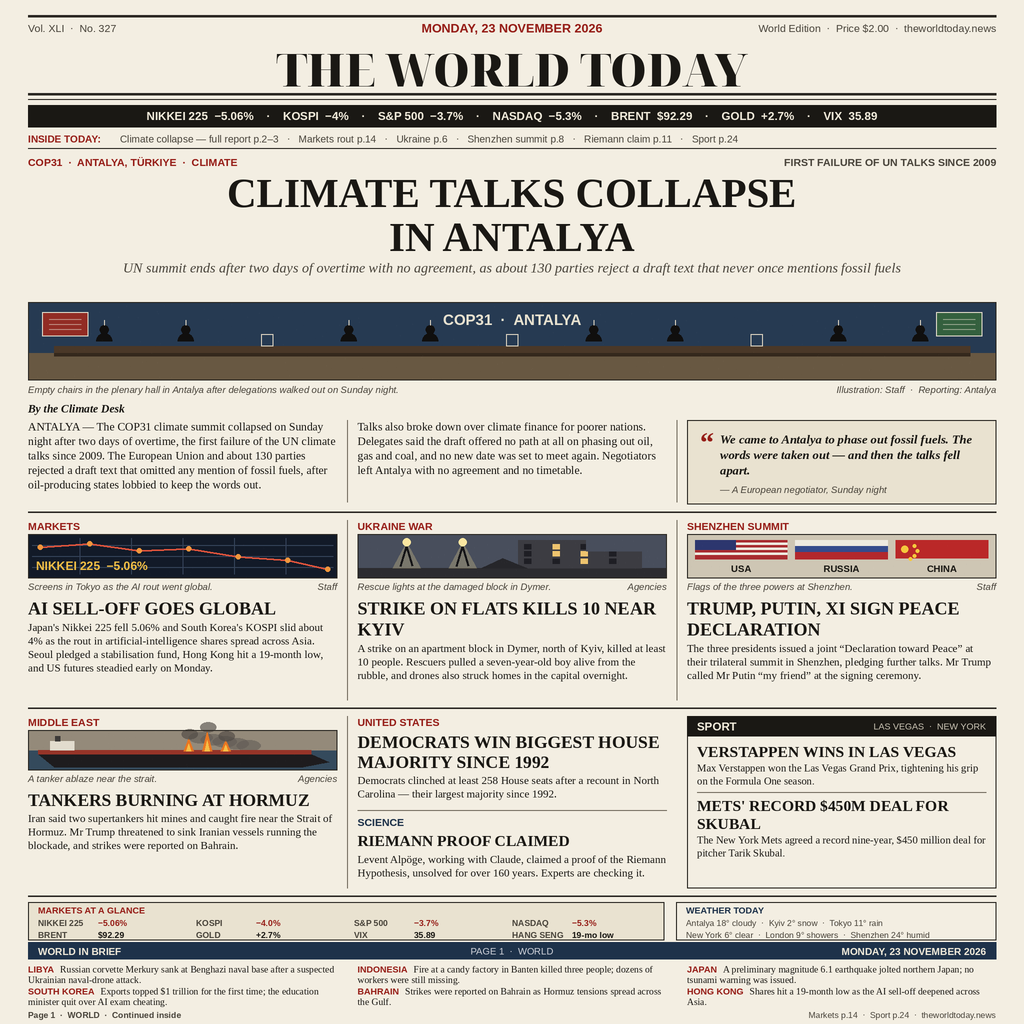
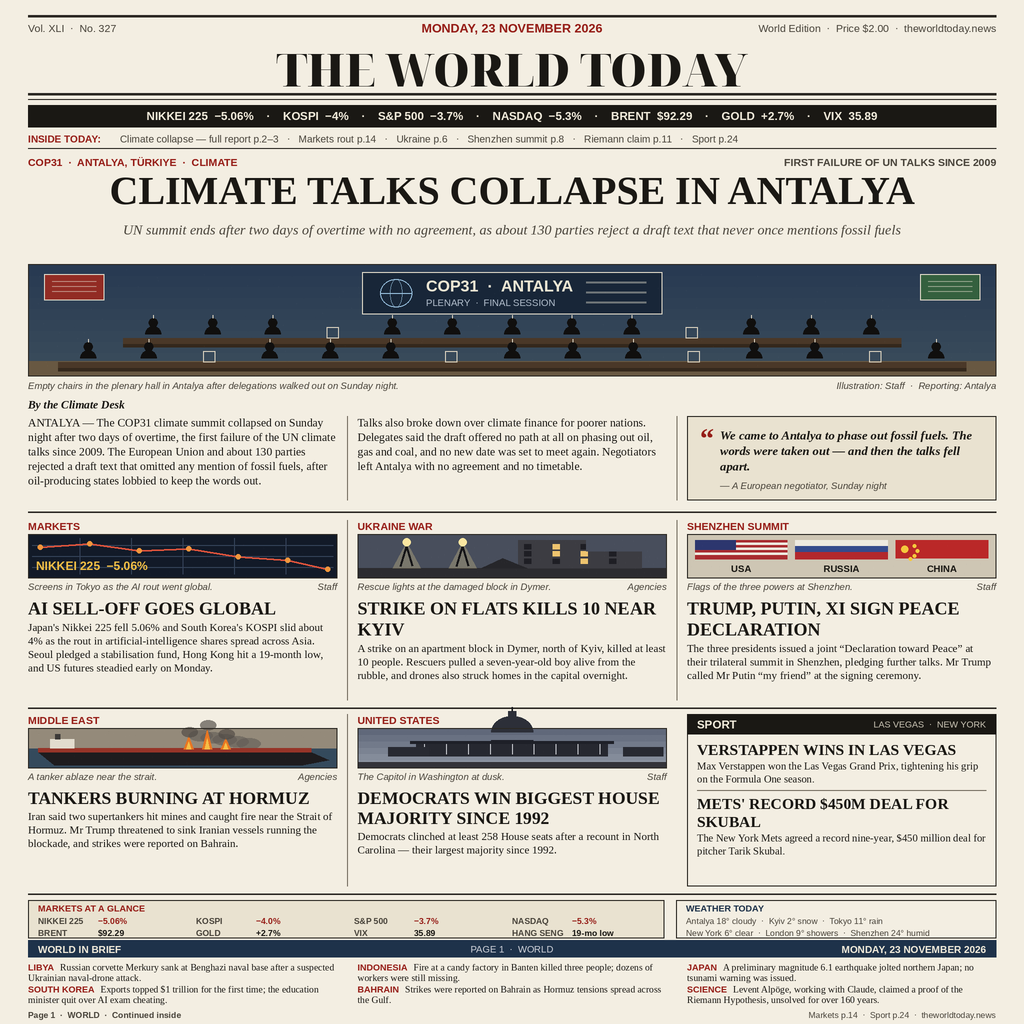
news-image-20261123 v4: taller COP31 plenary panel, one-line lead headline, Capitol panel for the House story, Riemann brief

Changed region(s): [[0.0312, 0.1562, 1.0, 0.5], [0.0312, 0.6875, 0.9688, 1.0]]

diff --git a/tools/render_page.py b/tools/render_page.py
@@ -1,4 +1,4 @@
-"""Build-time renderer for the v3 front page of THE WORLD TODAY.
+"""Build-time renderer for the v4 front page of THE WORLD TODAY.
 
 Composes a realistic broadsheet newspaper front page for Monday,
 23 November 2026 and writes it to assets/final-page.png. The page is
@@ -7,13 +7,20 @@ the type and the press-style illustration panels a smoother, printed
 finish. Pillow is used only here, on the build machine; the shipped
 entry point (main.py) is pure standard library.
 
+v4 changes over v3: the lead headline runs on one line so the COP31
+plenary panel can stand more than twice as tall — a proper hall scene
+with a big screen and two rows of delegates' desks, so the day's lead
+story reads at a glance. The US House story gains a Capitol panel of
+its own, and the Riemann claim moves to the World in Brief strip,
+where the Hong Kong brief (already covered by the markets story) was.
+
 Layout, top to bottom:
   folio line and masthead, markets ticker, "Inside today" strip,
   the COP31 lead (headline, deck, plenary-hall panel with caption and
   credit, body columns with a pull-quote rail), a three-column row
   (markets rout, Dymer strike, Shenzhen declaration), a second
-  three-column row (Hormuz tankers, US House + Riemann claim, Sport),
-  a markets-at-a-glance and weather band, and a World in Brief strip.
+  three-column row (Hormuz tankers, US House, Sport), a markets-at-a-
+  glance and weather band, and a World in Brief strip.
 """
 
 import random
@@ -134,34 +141,56 @@ def kicker(x, y, s, fill=RED):
 # ---------------------------------------------------------------- panels
 
 def plenary_panel(x, y, w, h):
-    """COP31 plenary hall in Antalya after the walkout."""
+    """COP31 plenary hall in Antalya after the walkout: a big screen
+    over two rows of delegates' desks, several chairs pointedly empty."""
     panel(x, y, w, h)
-    rect(x + 1, y + 1, w - 2, h - 26, fill=(38, 58, 82))            # hall wall
-    rect(x + 1, y + h - 27, w - 2, 26, fill=(104, 88, 66))          # stage floor
-    rect(x + 14, y + 10, 46, 24, fill=(146, 44, 36))                # side screens
-    rect(x + w - 60, y + 10, 46, 24, fill=(52, 96, 62))
-    rect(x + 14, y + 10, 46, 24, outline=(220, 214, 198), width=1)
-    rect(x + w - 60, y + 10, 46, 24, outline=(220, 214, 198), width=1)
-    for sx in (x + 14, x + w - 60):  # faint agenda lines on the screens
+    for i in range(10):  # hall wall, shaded in bands toward the floor
+        shade = (40 + i * 2, 58 + i * 2, 82 + i)
+        rect(x + 1, y + 1 + i * (h - 2) / 10, w - 2, (h - 2) / 10 + 1,
+             fill=shade)
+    rect(x + 1, y + h - 15, w - 2, 14, fill=(104, 88, 66))          # stage floor
+    # side screens with faint agenda lines
+    for sx, col in ((x + 16, (146, 44, 36)), (x + w - 76, (52, 96, 62))):
+        rect(sx, y + 10, 60, 26, fill=col, outline=(220, 214, 198), width=1)
         for li in range(3):
-            line(sx + 7, y + 17 + li * 5, sx + 39, y + 17 + li * 5,
+            line(sx + 8, y + 17 + li * 5, sx + 52, y + 17 + li * 5,
                  fill=(226, 220, 204, 130), width=1)
-    text(x + w / 2, y + 9, "COP31  ·  ANTALYA", F(SANS_B, 15),
-         (232, 226, 208), anchor="ma")
-    ty = y + h - 34                                                 # delegates' table
-    rect(x + 26, ty, w - 52, 7, fill=(74, 56, 40))
-    rect(x + 26, ty + 7, w - 52, 3, fill=(52, 40, 28))
-    seats = 11
-    for i in range(seats):  # some seats filled, several pointedly empty
-        cx = x + 76 + i * (w - 152) / (seats - 1)
-        if i in (2, 5, 8):
-            rect(cx - 6, ty - 12, 12, 12, outline=(214, 206, 188), width=1)
-            continue
-        d.ellipse([X(cx - 4.5), X(ty - 21), X(cx + 4.5), X(ty - 12)],
-                  fill=(16, 15, 14))
-        d.pieslice([X(cx - 8), X(ty - 13), X(cx + 8), X(ty + 3)],
-                   180, 360, fill=(16, 15, 14))
-        line(cx, ty - 26, cx, ty - 21, fill=(214, 206, 188), width=1)
+    # the big screen: summit name, a globe ring, the day's agenda
+    sw, sh = 300, 42
+    sx0, sy0 = x + (w - sw) / 2, y + 8
+    rect(sx0, sy0, sw, sh, fill=(24, 38, 56), outline=(220, 214, 198),
+         width=1)
+    d.ellipse([X(sx0 + 18), X(sy0 + 7), X(sx0 + 50), X(sy0 + 35)],
+              outline=(150, 190, 220), width=2)
+    d.ellipse([X(sx0 + 28), X(sy0 + 7), X(sx0 + 40), X(sy0 + 35)],
+              outline=(150, 190, 220), width=1)
+    line(sx0 + 18, sy0 + 21, sx0 + 50, sy0 + 21, fill=(150, 190, 220),
+         width=1)
+    text(sx0 + 64, sy0 + 5, "COP31  ·  ANTALYA", F(SANS_B, 16),
+         (236, 230, 212))
+    text(sx0 + 64, sy0 + 25, "PLENARY  ·  FINAL SESSION", F(SANS, 9.5),
+         (178, 190, 204))
+    for li in range(3):
+        line(sx0 + 224, sy0 + 10 + li * 10, sx0 + 284, sy0 + 10 + li * 10,
+             fill=(226, 220, 204, 110), width=2)
+
+    def desk_row(ty, seats, empties, span):
+        rect(x + (w - span) / 2, ty, span, 6, fill=(74, 56, 40))
+        rect(x + (w - span) / 2, ty + 6, span, 3, fill=(52, 40, 28))
+        for i in range(seats):
+            cx = x + (w - span) / 2 + 30 + i * (span - 60) / (seats - 1)
+            if i in empties:  # an empty chair: pale outline, no delegate
+                rect(cx - 6, ty - 11, 12, 11, outline=(214, 206, 188),
+                     width=1)
+                continue
+            d.ellipse([X(cx - 4.5), X(ty - 20), X(cx + 4.5), X(ty - 11)],
+                      fill=(16, 15, 14))
+            d.pieslice([X(cx - 8), X(ty - 12), X(cx + 8), X(ty + 4)],
+                       180, 360, fill=(16, 15, 14))
+            line(cx, ty - 23, cx, ty - 20, fill=(214, 206, 188), width=1)
+
+    desk_row(y + h - 38, 13, (3, 9), w - 190)      # back row, raised
+    desk_row(y + h - 14, 15, (2, 6, 10, 13), w - 60)  # front row
     grain(x, y, w, h, seed=31)
     rect(x, y, w, h, outline=RULE, width=1)
 
@@ -270,6 +299,34 @@ def tanker_panel(x, y, w, h):
     rect(x, y, w, h, outline=RULE, width=1)
 
 
+def capitol_panel(x, y, w, h):
+    """The US Capitol at dusk: dome, colonnade and steps in silhouette."""
+    panel(x, y, w, h)
+    for i in range(6):  # dusk sky, paler toward the horizon
+        shade = (96 + i * 9, 104 + i * 9, 122 + i * 8)
+        rect(x + 1, y + 1 + i * (h - 2) / 6, w - 2, (h - 2) / 6 + 1,
+             fill=shade)
+    rect(x + 1, y + h - 6, w - 2, 5, fill=(52, 52, 58))             # plaza
+    cx = x + w / 2
+    bw = w * 0.62                                                   # building width
+    bx = cx - bw / 2
+    by = y + h - 12                                                 # building base
+    rect(bx, by - 13, bw, 13, fill=(38, 40, 48))                    # main block
+    for i in range(9):                                              # colonnade
+        lx = bx + 8 + i * (bw - 16) / 8
+        line(lx, by - 12, lx, by - 2, fill=(196, 198, 204), width=1)
+    rect(bx - 6, by - 15, bw + 12, 2.5, fill=(30, 32, 40))          # entablature
+    d.pieslice([X(cx - 21), X(by - 40), X(cx + 21), X(by - 8)],
+               180, 360, fill=(44, 47, 56))                         # the dome
+    rect(cx - 21, by - 16, 42, 2, fill=(30, 32, 40))
+    rect(cx - 4, by - 45, 8, 6, fill=(44, 47, 56))                  # lantern
+    line(cx, by - 45, cx, by - 49, fill=(24, 25, 30), width=1.5)    # statue spike
+    for sx in (x + w * 0.10, x + w * 0.86):                         # side wings
+        rect(sx, by - 9, w * 0.13, 9, fill=(40, 42, 50))
+    grain(x, y, w, h, seed=23, n=110, alpha=10)
+    rect(x, y, w, h, outline=RULE, width=1)
+
+
 # ---------------------------------------------------------------- page
 
 M = 28                 # page margin
@@ -335,19 +392,19 @@ line(M, 148, W - M, 148, width=1)
 kicker(M, 156, "COP31  ·  ANTALYA, TÜRKIYE  ·  CLIMATE")
 text(W - M, 156, "FIRST FAILURE OF UN TALKS SINCE 2009", F(SANS_B, 10.5),
      SOFT, anchor="ra")
-text(W / 2, 170, "CLIMATE TALKS COLLAPSE", F(SERIF_B, 41), INK, anchor="ma")
-text(W / 2, 214, "IN ANTALYA", F(SERIF_B, 41), INK, anchor="ma")
-flow(M + 60, 260,
+text(W / 2, 168, "CLIMATE TALKS COLLAPSE IN ANTALYA", F(SERIF_B, 40),
+     INK, anchor="ma")
+flow(M + 60, 222,
      "UN summit ends after two days of overtime with no agreement, as about "
      "130 parties reject a draft text that never once mentions fossil fuels",
      F(SERIF_I, 14), CW - 120, 18, SOFT, align="center")
 
-plenary_panel(M, 302, CW, 78)
-caption(M, 384, CW,
+plenary_panel(M, 264, CW, 112)
+caption(M, 380, CW,
         "Empty chairs in the plenary hall in Antalya after delegations walked out on Sunday night.",
         "Illustration: Staff  ·  Reporting: Antalya")
 
-text(M, 402, "By the Climate Desk", F(SERIF_BI, 11.5), INK)
+text(M, 398, "By the Climate Desk", F(SERIF_BI, 11.5), INK)
 LEAD_A = ("ANTALYA — The COP31 climate summit collapsed on Sunday night "
           "after two days of overtime, the first failure of the UN climate "
           "talks since 2009. The European Union and about 130 parties "
@@ -357,17 +414,17 @@ LEAD_B = ("Talks also broke down over climate finance for poorer nations. "
           "Delegates said the draft offered no path at all on phasing out "
           "oil, gas and coal, and no new date was set to meet again. "
           "Negotiators left Antalya with no agreement and no timetable.")
-flow(M, 420, LEAD_A, F(SERIF, 11.5), COLW, 14.5)
-vrule(COL2 - GUT / 2, 420, 502)
-flow(COL2, 420, LEAD_B, F(SERIF, 11.5), COLW, 14.5)
-vrule(COL3 - GUT / 2, 420, 502)
-rect(COL3, 420, COLW, 84, fill=PAPER_DARK, outline=RULE, width=1)
-text(COL3 + 13, 427, "“", F(SERIF_B, 28), RED)
-flow(COL3 + 33, 432,
+flow(M, 416, LEAD_A, F(SERIF, 11.5), COLW, 14.5)
+vrule(COL2 - GUT / 2, 416, 500)
+flow(COL2, 416, LEAD_B, F(SERIF, 11.5), COLW, 14.5)
+vrule(COL3 - GUT / 2, 416, 500)
+rect(COL3, 416, COLW, 84, fill=PAPER_DARK, outline=RULE, width=1)
+text(COL3 + 13, 423, "“", F(SERIF_B, 28), RED)
+flow(COL3 + 33, 428,
      "We came to Antalya to phase out fossil fuels. The words were taken "
      "out — and then the talks fell apart.",
      F(SERIF_BI, 12.5), COLW - 47, 15.5)
-text(COL3 + 33, 484, "— A European negotiator, Sunday night",
+text(COL3 + 33, 480, "— A European negotiator, Sunday night",
      F(SANS_I, 9.5), SOFT)
 line(M, 512, W - M, 512, width=1.5)
 
@@ -409,7 +466,7 @@ flow(COL3, y + 2,
 line(M, RA + 188, W - M, RA + 188, width=1.5)
 
 # --- row B: hormuz / united states + science / sport -------------------------
-RB = RA + 196  # 730
+RB = RA + 194  # 714
 kicker(M, RB, "MIDDLE EAST")
 tanker_panel(M, RB + 14, COLW, 40)
 caption(M, RB + 57, COLW, "A tanker ablaze near the strait.", "Agencies")
@@ -422,19 +479,13 @@ flow(M, y + 2,
 
 vrule(COL2 - GUT / 2, RB, RB + 172)
 kicker(COL2, RB, "UNITED STATES")
-y = flow(COL2, RB + 16, "DEMOCRATS WIN BIGGEST HOUSE MAJORITY SINCE 1992",
+capitol_panel(COL2, RB + 14, COLW, 40)
+caption(COL2, RB + 57, COLW, "The Capitol in Washington at dusk.", "Staff")
+y = flow(COL2, RB + 74, "DEMOCRATS WIN BIGGEST HOUSE MAJORITY SINCE 1992",
          F(SERIF_B, 17.5), COLW, 20)
 flow(COL2, y + 2,
      "Democrats clinched at least 258 House seats after a recount in "
      "North Carolina — their largest majority since 1992.",
-     F(SERIF, 11), COLW, 13.5)
-line(COL2, RB + 94, COL2 + COLW, RB + 94, fill=FAINT, width=1)
-kicker(COL2, RB + 100, "SCIENCE", fill=NAVY)
-y = flow(COL2, RB + 116, "RIEMANN PROOF CLAIMED",
-         F(SERIF_B, 15.5), COLW, 19)
-flow(COL2, y + 2,
-     "Levent Alpöge, working with Claude, claimed a proof of the Riemann "
-     "Hypothesis, unsolved for over 160 years. Experts are checking it.",
      F(SERIF, 11), COLW, 13.5)
 
 rect(COL3, RB, COLW, 172, outline=RULE, width=1.2)                    # sport box
@@ -494,8 +545,8 @@ BRIEFS = [
                     "education minister quit over AI exam cheating."),
     ("BAHRAIN", "Strikes were reported on Bahrain as Hormuz tensions "
                 "spread across the Gulf."),
-    ("HONG KONG", "Shares hit a 19-month low as the AI sell-off deepened "
-                  "across Asia."),
+    ("SCIENCE", "Levent Alpöge, working with Claude, claimed a proof of "
+                "the Riemann Hypothesis, unsolved for over 160 years."),
 ]
 for i, (head, body) in enumerate(BRIEFS):
     bx = M + (i % 3) * (COLW + GUT)

diff --git a/README.md b/README.md
@@ -2,17 +2,20 @@
 [![rank](https://make.fun/badge/news-image-20261123/kingpoogh-stack/news-image-20261123/rank.svg)](https://make.fun/bounty/news-image-20261123/leaderboard?utm_source=github&utm_medium=readme&utm_campaign=news-image-20261123)
 [![reward](https://make.fun/badge/news-image-20261123/kingpoogh-stack/news-image-20261123/reward.svg)](https://make.fun/bounty/news-image-20261123?utm_source=github&utm_medium=readme&utm_campaign=news-image-20261123)
 
-# The World Today — Monday, 23 November 2026 (v3)
+# The World Today — Monday, 23 November 2026 (v4)
 
 An entry for make.fun's [“Sum up 23 November's world news in one image” bounty](https://make.fun/bounty/news-image-20261123).
 
-Version 3 of the one-page broadsheet front page summing up Monday,
+Version 4 of the one-page broadsheet front page summing up Monday,
 23 November 2026's world news in a single 1024×1024 image. The date
 runs in the folio line, the World in Brief header and the footer, so
-the day is named wherever a reader's eye lands. Compared with v2,
-every story now carries fuller newspaper copy — several sentences of
-figures, places and names rather than a headline and a one-liner —
-and the page adds a pull-quote, a markets data box and a weather box.
+the day is named wherever a reader's eye lands. Compared with v3,
+the lead headline now runs on a single line so the COP31 plenary
+panel stands more than twice as tall — a full hall scene with the
+summit screen and two rows of delegates' desks, its empty chairs
+marking the walkout — and the US House story gains a Capitol panel
+of its own. The Riemann claim moves to the World in Brief strip,
+whose Hong Kong brief duplicated the markets story.
 
 The lead story is the collapse of the COP31 climate summit in
 Antalya, Türkiye: an oversize headline and deck, a plenary-hall
@@ -23,14 +26,14 @@ text: the global AI sell-off (Nikkei 225 −5.06%, with a dealing-room
 chart panel), the deadly strike on an apartment block in Dymer near
 Kyiv (10 killed, with a rescue-lights panel), the Trump–Putin–Xi
 "Declaration toward Peace" signed in Shenzhen (flags panel), burning
-tankers near the Strait of Hormuz, the Democrats' largest US House
-majority since 1992, and a claimed proof of the Riemann Hypothesis.
-A boxed Sport section covers Verstappen's Las Vegas Grand Prix win
-and the New York Mets' record $450 million deal for Tarik Skubal. A
-"Markets at a Glance" data box (Nikkei, KOSPI, S&P 500, Nasdaq,
-Brent, gold, VIX, Hang Seng) sits beside a six-city weather box, and
-a six-item World in Brief strip covers Libya, Indonesia, Japan,
-South Korea, Bahrain and Hong Kong.
+tankers near the Strait of Hormuz, and the Democrats' largest US
+House majority since 1992 under a dusk view of the Capitol. A boxed
+Sport section covers Verstappen's Las Vegas Grand Prix win and the
+New York Mets' record $450 million deal for Tarik Skubal. A "Markets
+at a Glance" data box (Nikkei, KOSPI, S&P 500, Nasdaq, Brent, gold,
+VIX, Hang Seng) sits beside a six-city weather box, and a six-item
+World in Brief strip covers Libya, Indonesia, Japan, South Korea,
+Bahrain and the claimed proof of the Riemann Hypothesis.
 
 ## How it works
 
